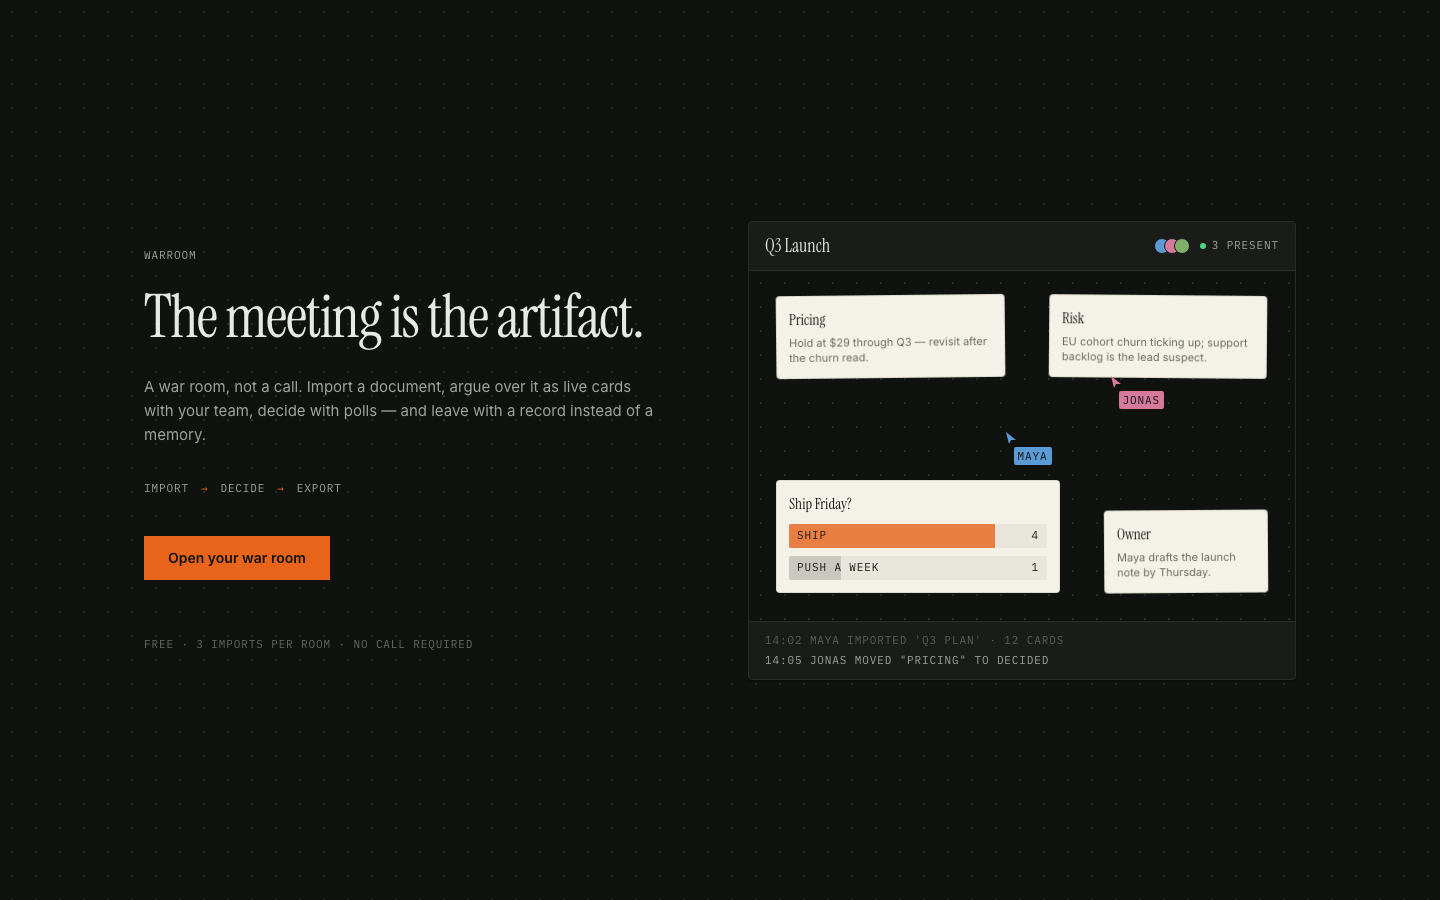
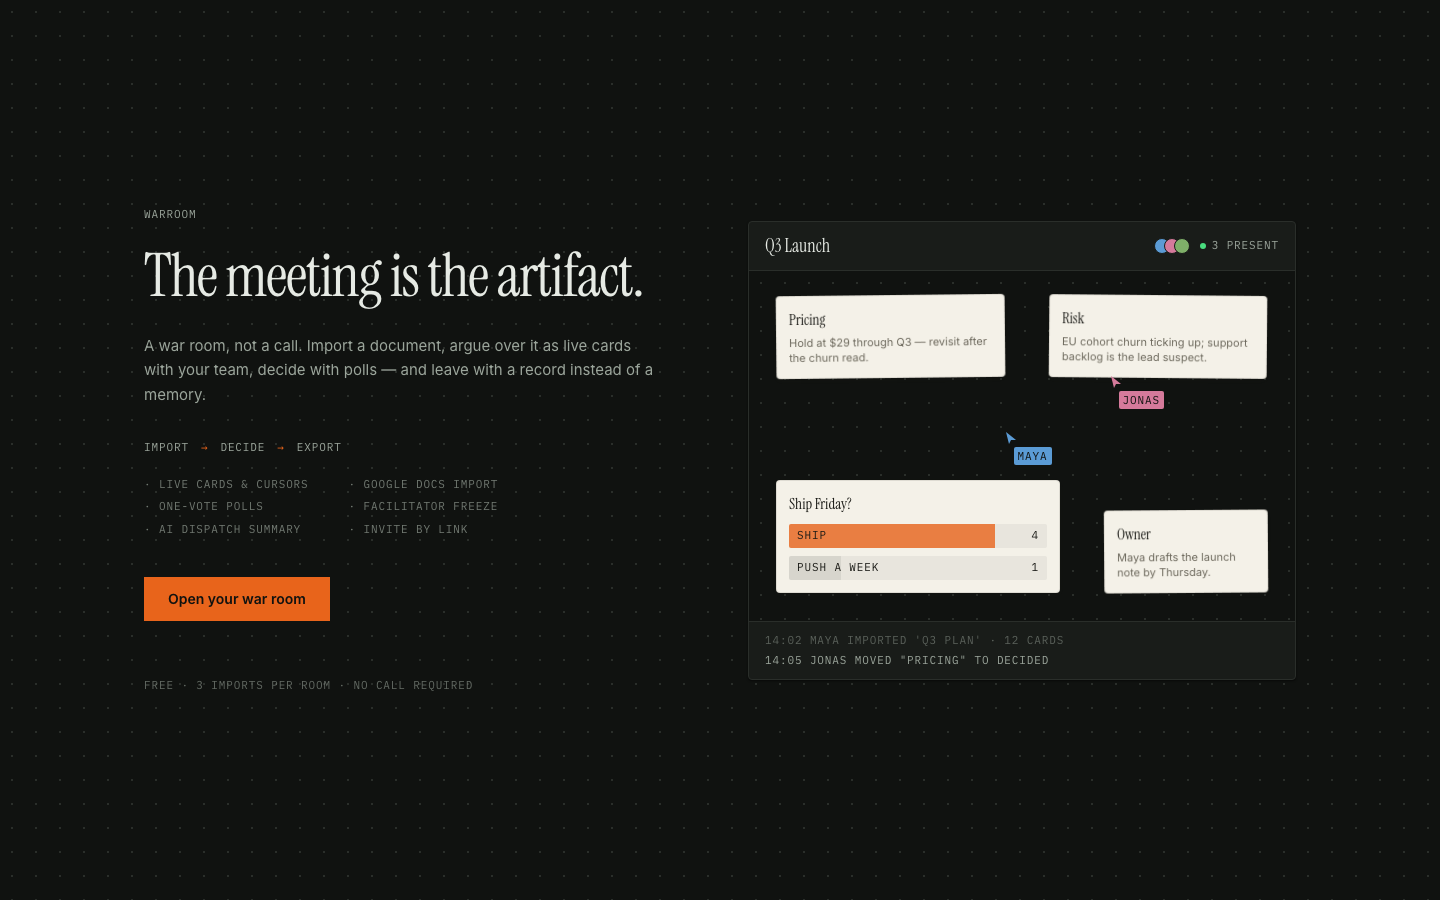
feat: board camera (pan/zoom, D-022) + landing feature strip, per external feedback; fix B-009 pan text-selection
Claude-Session: https://claude.ai/code/session_015XfDUBG5xMRycWv5oHM199

diff --git a/warroom/src/components/Board.tsx b/warroom/src/components/Board.tsx
@@ -5,10 +5,11 @@
  * the UI here only mirrors it.
  */
 
-import { useRef, useState } from 'react'
+import { useEffect, useRef, useState } from 'react'
 import { getUserColor, useAuthUser, useMutations, usePresenceRoom, useQuery } from 'deepspace'
 import { Textarea, useToast } from '@/components/ui'
 import { callAction } from '../lib/actions-client'
+import { clampView, toWorld, zoomView, type View } from '../lib/camera'
 import { PollCard, type PollData } from './PollCard'
 import { ImportPanel } from './ImportPanel'
 import { SummaryPanel } from './SummaryPanel'
@@ -25,8 +26,9 @@ export type CardData = {
 type SettingsData = { facilitatorId: string; frozenBy?: string | null; frozenByName?: string | null }
 type EventData = { at: number; text: string }
 
-const FIELD_W = 1600
-const FIELD_H = 900
+// world (table) size — big enough to spread out; the camera makes it reachable
+const FIELD_W = 2400
+const FIELD_H = 1400
 
 export default function Board({
   roomId,
@@ -70,13 +72,53 @@ export default function Board({
   const fieldRef = useRef<HTMLDivElement>(null)
   const lastCursorSent = useRef(0)
 
+  // ── camera (D-022): local per-user pan/zoom; records keep world coords ──
+  const [view, setView] = useState<View>({ x: 0, y: 0, scale: 1 })
+  const viewRef = useRef(view)
+  viewRef.current = view
+  const pan = useRef<{ px: number; py: number } | null>(null)
+
+  // wheel = pan, ctrl/cmd+wheel (trackpad pinch) = zoom at the pointer.
+  // Native listener: React's onWheel can't preventDefault (passive).
+  useEffect(() => {
+    const field = fieldRef.current
+    if (!field) return
+    const onWheel = (e: WheelEvent) => {
+      e.preventDefault()
+      const rect = field.getBoundingClientRect()
+      const v = viewRef.current
+      const next =
+        e.ctrlKey || e.metaKey
+          ? zoomView(v, e.clientX - rect.left, e.clientY - rect.top, Math.exp(-e.deltaY * 0.005))
+          : { ...v, x: v.x - e.deltaX, y: v.y - e.deltaY }
+      setView(clampView(next, rect.width, rect.height, FIELD_W, FIELD_H))
+    }
+    field.addEventListener('wheel', onWheel, { passive: false })
+    return () => field.removeEventListener('wheel', onWheel)
+  }, [])
+
+  function zoomBy(factor: number) {
+    const rect = fieldRef.current?.getBoundingClientRect()
+    if (!rect) return
+    setView((v) =>
+      clampView(zoomView(v, rect.width / 2, rect.height / 2, factor), rect.width, rect.height, FIELD_W, FIELD_H),
+    )
+  }
+
+  function fieldWorldPoint(e: React.PointerEvent): { wx: number; wy: number } | null {
+    const rect = fieldRef.current?.getBoundingClientRect()
+    if (!rect) return null
+    return toWorld(viewRef.current, e.clientX - rect.left, e.clientY - rect.top)
+  }
+
   function onFieldPointerMove(e: React.PointerEvent) {
     const now = performance.now()
     if (now - lastCursorSent.current < 60) return
     lastCursorSent.current = now
-    const rect = fieldRef.current?.getBoundingClientRect()
-    if (!rect) return
-    updateState({ cx: e.clientX - rect.left, cy: e.clientY - rect.top, name: user?.fullName ?? '?' })
+    const p = fieldWorldPoint(e)
+    // world coords: peers render your cursor glued to the cards, whatever
+    // their own camera is doing
+    if (p) updateState({ cx: p.wx, cy: p.wy, name: user?.fullName ?? '?' })
   }
 
   // ── drag (cards and polls share it; kind picks the collection) ──────
@@ -85,15 +127,16 @@ export default function Board({
   const lastDragSync = useRef(0)
 
   function startDrag(e: React.PointerEvent, id: string, kind: 'card' | 'poll', x: number, y: number) {
+    e.stopPropagation() // grabbing a card must not also pan the board
     if (locked) {
       setShakeId(id)
       setTimeout(() => setShakeId(null), 350)
       warning('Board is frozen', `${settings?.frozenByName ?? 'The facilitator'} froze the board`)
       return
     }
-    const rect = fieldRef.current?.getBoundingClientRect()
-    if (!rect) return
-    setDrag({ id, kind, dx: e.clientX - rect.left - x, dy: e.clientY - rect.top - y, x, y })
+    const p = fieldWorldPoint(e)
+    if (!p) return
+    setDrag({ id, kind, dx: p.wx - x, dy: p.wy - y, x, y })
   }
 
   function syncDragPosition(id: string, kind: 'card' | 'poll', x: number, y: number) {
@@ -103,11 +146,28 @@ export default function Board({
 
   function onDragMove(e: React.PointerEvent) {
     onFieldPointerMove(e)
+    if (pan.current) {
+      const { px, py } = pan.current
+      pan.current = { px: e.clientX, py: e.clientY }
+      const rect = fieldRef.current?.getBoundingClientRect()
+      if (rect) {
+        setView((v) =>
+          clampView(
+            { ...v, x: v.x + e.clientX - px, y: v.y + e.clientY - py },
+            rect.width,
+            rect.height,
+            FIELD_W,
+            FIELD_H,
+          ),
+        )
+      }
+      return
+    }
     if (!drag) return
-    const rect = fieldRef.current?.getBoundingClientRect()
-    if (!rect) return
-    const x = clamp(e.clientX - rect.left - drag.dx, 0, FIELD_W - 40)
-    const y = clamp(e.clientY - rect.top - drag.dy, 0, FIELD_H - 40)
+    const p = fieldWorldPoint(e)
+    if (!p) return
+    const x = clamp(p.wx - drag.dx, 0, FIELD_W - 40)
+    const y = clamp(p.wy - drag.dy, 0, FIELD_H - 40)
     setDrag({ ...drag, x, y })
     // stream position while dragging so other windows see the card move live
     const now = performance.now()
@@ -123,6 +183,7 @@ export default function Board({
   const [settled, setSettled] = useState<{ id: string; x: number; y: number } | null>(null)
 
   function endDrag() {
+    pan.current = null
     if (drag) {
       syncDragPosition(drag.id, drag.kind, drag.x, drag.y)
       setSettled({ id: drag.id, x: drag.x, y: drag.y })
@@ -139,11 +200,14 @@ export default function Board({
 
   // ── card CRUD ───────────────────────────────────────────────────────
   async function addCard() {
+    // land the new card in the middle of wherever this user is looking
+    const rect = fieldRef.current?.getBoundingClientRect()
+    const c = rect ? toWorld(view, rect.width / 2, rect.height / 2) : { wx: 300, wy: 250 }
     await create({
       title: '',
       body: '',
-      x: 80 + Math.random() * 300,
-      y: 100 + Math.random() * 200,
+      x: clamp(c.wx - 128 + (Math.random() - 0.5) * 120, 0, FIELD_W - 280),
+      y: clamp(c.wy - 60 + (Math.random() - 0.5) * 100, 0, FIELD_H - 160),
       origin: 'added',
       authorName: user?.fullName ?? '',
     })
@@ -275,11 +339,27 @@ export default function Board({
       <div className="flex min-h-0 flex-1">
       <div
         ref={fieldRef}
-        className={`dotgrid relative flex-1 overflow-auto ${frozen ? 'brightness-[.85]' : ''}`}
+        // select-none: without it a pan drag runs a native text selection
+        // across every card it crosses (B-009)
+        className={`relative flex-1 touch-none select-none overflow-hidden bg-background ${frozen ? 'brightness-[.85]' : ''}`}
+        onPointerDown={(e) => {
+          if (e.button !== 0) return
+          pan.current = { px: e.clientX, py: e.clientY }
+        }}
         onPointerMove={onDragMove}
         onPointerUp={endDrag}
         onPointerLeave={endDrag}
       >
+        {/* the table: everything in world coordinates lives inside */}
+        <div
+          className="dotgrid absolute left-0 top-0 rounded-sm border border-border/60"
+          style={{
+            width: FIELD_W,
+            height: FIELD_H,
+            transform: `translate(${view.x}px, ${view.y}px) scale(${view.scale})`,
+            transformOrigin: '0 0',
+          }}
+        >
         {cards.map((c) => (
           <BoardCard
             key={c.recordId}
@@ -332,6 +412,19 @@ export default function Board({
             </div>
           )
         })}
+        </div>
+
+        {/* camera HUD — screen-fixed, like the wire log */}
+        <div className="wire absolute bottom-4 right-5 z-30 flex items-center gap-2 text-chrome">
+          <button onClick={() => zoomBy(1 / 1.25)} className="rounded-sm border border-border px-2 py-1 hover:border-chrome hover:text-foreground" aria-label="Zoom out">−</button>
+          <span className="w-10 text-center tabular-nums">{Math.round(view.scale * 100)}%</span>
+          <button onClick={() => zoomBy(1.25)} className="rounded-sm border border-border px-2 py-1 hover:border-chrome hover:text-foreground" aria-label="Zoom in">+</button>
+          {(view.x !== 0 || view.y !== 0 || view.scale !== 1) && (
+            <button onClick={() => setView({ x: 0, y: 0, scale: 1 })} className="ml-1 hover:text-foreground">
+              RESET
+            </button>
+          )}
+        </div>
 
         {/* wire log — the meeting writing its own record */}
         <div className="pointer-events-none absolute bottom-4 left-5 z-30 flex flex-col gap-1">

diff --git a/warroom/src/warroom.test.ts b/warroom/src/warroom.test.ts
@@ -87,6 +87,28 @@ describe('extractDocList (picker: doc listings in unknown nesting)', () => {
   })
 })
 
+describe('board camera (pan/zoom math, D-022)', () => {
+  it('zoomView keeps the world point under the pointer fixed', async () => {
+    const { zoomView, toWorld } = await import('./lib/camera')
+    const v = { x: -120, y: 40, scale: 1 }
+    const before = toWorld(v, 500, 300)
+    const after = toWorld(zoomView(v, 500, 300, 0.5), 500, 300)
+    expect(after.wx).toBeCloseTo(before.wx)
+    expect(after.wy).toBeCloseTo(before.wy)
+  })
+  it('zoomView clamps scale to its bounds', async () => {
+    const { zoomView, MIN_SCALE, MAX_SCALE } = await import('./lib/camera')
+    expect(zoomView({ x: 0, y: 0, scale: 1 }, 0, 0, 0.01).scale).toBe(MIN_SCALE)
+    expect(zoomView({ x: 0, y: 0, scale: 1 }, 0, 0, 100).scale).toBe(MAX_SCALE)
+  })
+  it('clampView never lets the board leave the viewport entirely', async () => {
+    const { clampView } = await import('./lib/camera')
+    const lost = clampView({ x: -99999, y: 99999, scale: 1 }, 1200, 800, 2400, 1400)
+    expect(lost.x).toBe(160 - 2400) // right edge of world still 160px on-screen
+    expect(lost.y).toBe(800 - 160) // top edge of world still 160px on-screen
+  })
+})
+
 describe('parseMemberIds (stored membership json)', () => {
   it('accepts arrays and JSON strings', () => {
     expect(parseMemberIds(['a', 'b'])).toEqual(['a', 'b'])

diff --git a/warroom/src/lib/camera.ts b/warroom/src/lib/camera.ts
@@ -1,0 +1,31 @@
+/**
+ * Board camera — pure math for pan/zoom (D-022). The view is LOCAL state:
+ * each person frames the board for themselves; card positions stay in world
+ * coordinates in the records, so views never fight.
+ */
+
+export type View = { x: number; y: number; scale: number }
+
+export const MIN_SCALE = 0.35
+export const MAX_SCALE = 1.5
+
+/** Keep at least `margin` px of the world rect visible in the viewport. */
+export function clampView(v: View, viewportW: number, viewportH: number, worldW: number, worldH: number, margin = 160): View {
+  return {
+    ...v,
+    x: Math.min(Math.max(v.x, margin - worldW * v.scale), viewportW - margin),
+    y: Math.min(Math.max(v.y, margin - worldH * v.scale), viewportH - margin),
+  }
+}
+
+/** Zoom by `factor` keeping the world point under viewport point (px,py) fixed. */
+export function zoomView(v: View, px: number, py: number, factor: number): View {
+  const scale = Math.min(Math.max(v.scale * factor, MIN_SCALE), MAX_SCALE)
+  const k = scale / v.scale
+  return { x: px - (px - v.x) * k, y: py - (py - v.y) * k, scale }
+}
+
+/** Viewport (screen) point → world point. */
+export function toWorld(v: View, px: number, py: number): { wx: number; wy: number } {
+  return { wx: (px - v.x) / v.scale, wy: (py - v.y) / v.scale }
+}

diff --git a/warroom/src/pages/index.tsx b/warroom/src/pages/index.tsx
@@ -51,6 +51,18 @@ export default function Landing() {
             <span className="text-primary">→</span>
             <span>EXPORT</span>
           </div>
+          <div className="wire mt-5 grid grid-cols-2 gap-x-10 gap-y-1.5 text-left text-[10px] text-chrome/70">
+            {[
+              'LIVE CARDS & CURSORS',
+              'GOOGLE DOCS IMPORT',
+              'ONE-VOTE POLLS',
+              'FACILITATOR FREEZE',
+              'AI DISPATCH SUMMARY',
+              'INVITE BY LINK',
+            ].map((f) => (
+              <span key={f}>· {f}</span>
+            ))}
+          </div>
           <Link
             to="/rooms"
             className="mt-10 rounded-sm bg-primary px-6 py-3 text-sm font-semibold text-primary-foreground hover:brightness-110"

diff --git a/docs/BUGLOG.md b/docs/BUGLOG.md
@@ -201,3 +201,15 @@ When: post-submission polish (user asked about Higgsfield for the landing)
 Decision: elevate the landing with the brief's missing "live-looking product shot of the Room" (design-brief §6.6) — a CSS miniature board that assembles itself (staggered card-drop, live poll fillbars, breathing presence, cycling wire log) built from the app's own animation utilities. Declined AI-generated (Higgsfield) hero imagery.
 Why: the identity is typographic restraint; the strongest hook for a tool is the tool. Zero new dependencies/assets — every animation class already existed for the real board.
 Beats: a generated cinematic hero — the one element that would make a distinctive page read generic, plus an asset pipeline outside my hands (needs the user's Higgsfield account).
+
+## D-022 · Board camera: local pan/zoom, world coords in records
+When: post-submission polish (friend feedback: "zoom out and drag it to one side, like infinite canvas")
+Decision: the board gets a per-user camera — drag empty ground to pan, wheel pans, ctrl/pinch zooms at the pointer, mono HUD (−/%/+/RESET) bottom-right. View is LOCAL state; records keep world coordinates, so two people can frame the board differently while dragging the same cards. Presence cursors now sync in world coords (glued to cards under any camera). World grew to 2400×1400; pan clamps so ≥160px of the table stays on-screen (can't get lost). Math lives in pure `src/lib/camera.ts` with unit tests (zoom-at-pointer invariant, clamp bounds).
+Why: fixed viewport meant a busy import could push cards out of reach; camera transform (one wrapper div) is the platform-primitive answer.
+Beats: truly infinite canvas (unbounded coords complicate clamping, import placement, and "where is everyone" for zero demo value) and synced viewports (fighting over one camera).
+
+## B-009 · Pan drag runs a native text selection across cards · FIXED
+When: D-022 verification (prod screenshot showed card meta text highlighted after a pan)
+Symptom: dragging the board ground to pan left orange selection highlights on card text the pointer crossed.
+Root cause: pointer-event panning doesn't suppress the browser's native drag-to-select.
+Fix: `select-none` on the board field. · Verified: re-ran the prod pan script; screenshot clean.

diff --git a/docs/SUBMISSION.md b/docs/SUBMISSION.md
@@ -7,7 +7,7 @@ Sixty-second demo: sign in → open a room → IMPORT → paste any text (messy 
 
 ## What it is
 
-A war room, not a call. Import a document — tidy or messy — and it lands on a shared board as live cards. The team triages together (presence cursors, realtime drag), contested points get settled by live polls (one vote per person, enforced by the database), the facilitator can freeze the whole room server-side, and the meeting ends with an AI-written dispatch ("What was decided") exported as Markdown. The meeting is the artifact.
+A war room, not a call. Import a document — tidy or messy — and it lands on a shared board as live cards. The team triages together (presence cursors, realtime drag, a pannable/zoomable board that each person frames for themselves), contested points get settled by live polls (one vote per person, enforced by the database), the facilitator can freeze the whole room server-side, and the meeting ends with an AI-written dispatch ("What was decided") exported as Markdown. The meeting is the artifact.
 
 Best demo: open the room in two browser windows as two users. Vote in one, watch the bar move in the other; freeze in one, watch the other lock.
 
